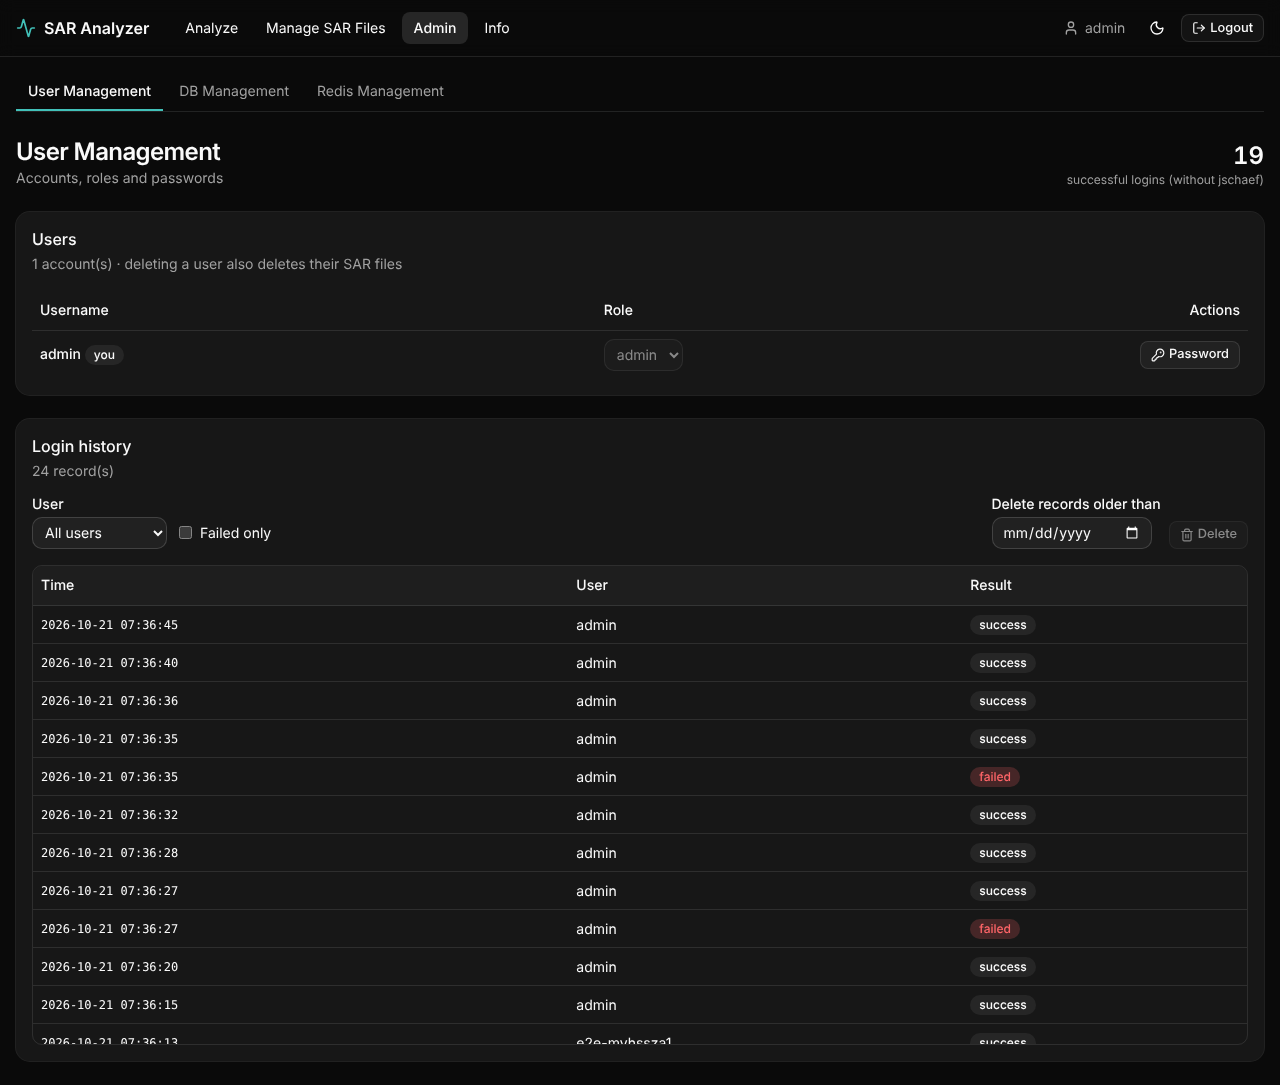
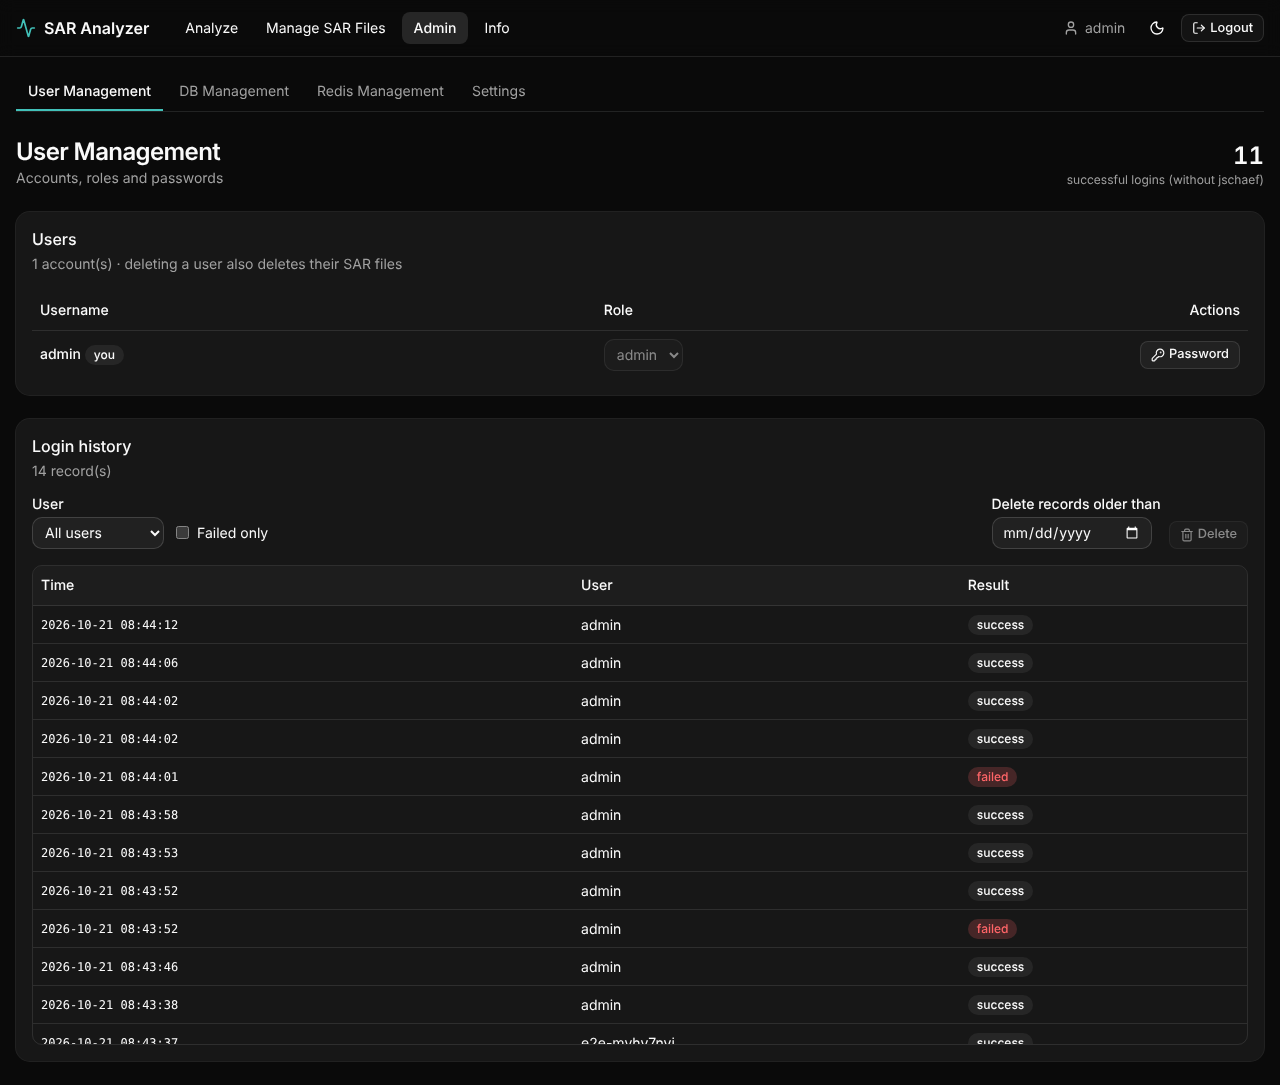
test(e2e), docs: admin settings
Claude-Session: https://claude.ai/code/session_01BdnqVQGre8zWwBra29mJmT

diff --git a/e2e/account.spec.ts b/e2e/account.spec.ts
@@ -1,5 +1,6 @@
 import { expect, test, type Browser, type Page } from "@playwright/test";
-import { PASSWORD, USER } from "./helpers";
+import path from "node:path";
+import { deleteFile, PASSWORD, upload, USER } from "./helpers";
 
 // Signup, Self Service, the admin pages and Info. Writes to data.db: run it
 // against the API started by playwright.config.ts (python -m
@@ -169,6 +170,46 @@ test.describe.serial("accounts and admin", () => {
     await renamed.getByTestId("delete-heading").click();
     await renamed.getByTestId("confirm-delete-heading").click();
     await expect(admin.getByTestId("heading-row")).toHaveCount(0);
+  });
+
+  test("settings: contact and limits apply at once", async () => {
+    // start from the environment values, also after an aborted earlier run
+    const reset = await admin.request.put("/api/v2/admin/settings", {
+      data: { values: { admin_email: null, max_header_count: null } },
+    });
+    expect(reset.ok()).toBe(true);
+    await admin.goto("/admin/settings");
+    const contact = admin.locator("[data-testid=settings-group][data-group=Contact]");
+    await contact.getByLabel("Admin e-mail").fill("sar-team@example.org");
+    await contact.getByRole("button", { name: "Save", exact: true }).click();
+    await expect(admin.getByText("Contact saved")).toBeVisible();
+    const email = admin.locator("[data-testid=setting][data-setting=admin_email]");
+    await expect(email.getByText("set here")).toBeVisible();
+
+    const views = admin.locator('[data-testid=settings-group][data-group="Analysis views"]');
+    await views.getByLabel("Metrics in Compare Metrics").fill("4");
+    await views.getByRole("button", { name: "Save", exact: true }).click();
+    await expect(admin.getByText("Analysis views saved")).toBeVisible();
+
+    // the login page of a fresh visitor and Compare Metrics follow
+    const visitor = await admin.context().browser()!.newPage();
+    await visitor.goto("/login");
+    await expect(visitor.getByTestId("help-note")).toContainText("sar-team@example.org");
+    await visitor.close();
+    const file = await upload(admin, path.join(__dirname, "fixtures", "sar_small.txt"), "synthetic-host");
+    await admin.goto(`/compare?file=${encodeURIComponent(file)}`);
+    await expect(admin.getByText("Up to 4 combinations")).toBeVisible();
+    await deleteFile(admin, file);
+
+    // Reset: back to the environment / default
+    await admin.goto("/admin/settings");
+    await email.getByRole("button", { name: "Reset" }).click();
+    await expect(email.getByText("set here")).toHaveCount(0);
+    await admin
+      .locator("[data-testid=setting][data-setting=max_header_count]")
+      .getByRole("button", { name: "Reset" })
+      .click();
+    await expect(admin.getByRole("button", { name: "Reset" })).toHaveCount(0);
   });
 
   test("redis management and info", async () => {

diff --git a/e2e/screenshots.spec.ts b/e2e/screenshots.spec.ts
@@ -52,6 +52,10 @@ for (const scheme of ["light", "dark"] as const) {
     await expect(page.getByTestId("metric-row").first()).toBeVisible();
     await page.screenshot({ path: path.join(outDir!, `admin-database-${scheme}-${width}.png`) });
 
+    await page.goto("/admin/settings");
+    await expect(page.getByTestId("settings-group")).toHaveCount(3);
+    await page.screenshot({ path: path.join(outDir!, `admin-settings-${scheme}-${width}.png`), fullPage: true });
+
     await deleteFile(page, name);
   });
 }

diff --git a/README.md b/README.md
@@ -52,6 +52,11 @@ Features:
   - *DB Management*: metric descriptions (search, add, delete) and sar headings
     (search by alias/metric/description, add, edit, delete).
   - *Redis Management*: Redis keys, delete fields of a hash.
+  - *Settings*: the runtime values of sarfile_analyzer_ng's `config.py` –
+    contact (admin e-mail, chat), limits (metrics in Compare Metrics, select
+    boxes per line) and the Redis connection. Stored values win over the
+    environment variables and apply to this frontend and the Streamlit app
+    without a restart; *Reset* goes back to the environment.
 - **Info**: about, FAQ, contact and code links.
 
 Signup, Self Service and the admin pages write to sarfile_analyzer_ng's
@@ -167,7 +172,8 @@ E2E:
   without JavaScript), no admin menu and "Admins only" for a normal user, Self
   Service, User Management (own row locked, role change seen by the user's open
   session, password, login history, delete → the user's session ends), DB
-  Management (metric and heading add/edit/delete), Redis and Info.
+  Management (metric and heading add/edit/delete), Settings (admin e-mail on
+  a visitor's login page, limit in Compare Metrics, reset), Redis and Info.
 
 Options for the e2e run:
 
@@ -185,7 +191,7 @@ Options for the e2e run:
   hostname from the file's first line.
 - `SAR_SCREENSHOTS_DIR=docs/screenshots [SAR_SCREENSHOTS_WIDTH=1024]` – writes the
   screenshots of login, Overview, Detailed Metrics, Metrics on many devices,
-  Compare Metrics, User Management and DB Management in light and dark.
+  Compare Metrics, User Management, DB Management and Settings in light and dark.
 
 ## Test data
 
@@ -218,7 +224,7 @@ app/(app)/(analyze)       analysis views with a shared sub navigation (layout.ts
   compare                   Compare Metrics
   multi                     Multiple SAR Files
 app/(app)/account         Self Service
-app/(app)/admin           users (+ login history), database (metrics, headings), redis
+app/(app)/admin           users (+ login history), database (metrics, headings), redis, settings
 app/(app)/info            Info
 components/analyze        shared parts of the views: file picker, sub navigation,
                           result tabs, data table, statistics, metric descriptions

diff --git a/PHASE2-API-GAPS.md b/PHASE2-API-GAPS.md
@@ -48,10 +48,13 @@ as pandas `describe()`).
 adds what the Streamlit pages Signup, Self Service, User Management,
 DB Management, Redis Management and Info need: `/signup`, `/info`,
 `/users/me/password` and `/admin/*` (users, roles, passwords, login history,
-metric and heading tables, Redis hash fields) – list in
+metric and heading tables, Redis hash fields, the runtime settings of
+`config.py`) – list in
 [backend/README.md](backend/README.md). The writes go through
 sarfile_analyzer_ng's own functions into its `data.db`; nothing in that project
-changes. The TODO page was left out on purpose.
+changes – except for the runtime settings: `config.py` and `redis_mng` of
+sarfile_analyzer_ng read the stored values (own commit there). The TODO page
+was left out on purpose.
 
 ## Still open / new limits
 
